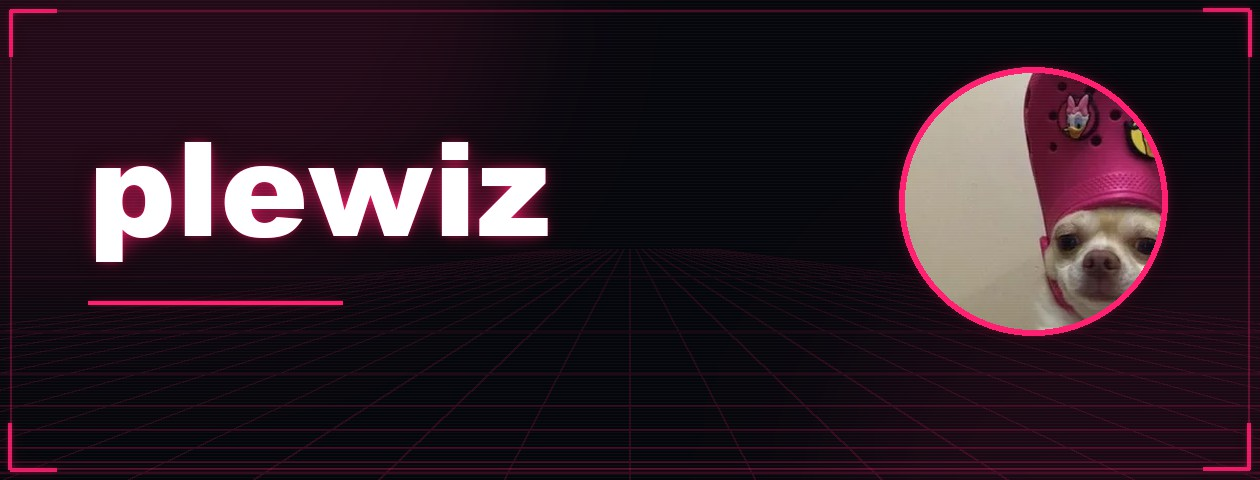
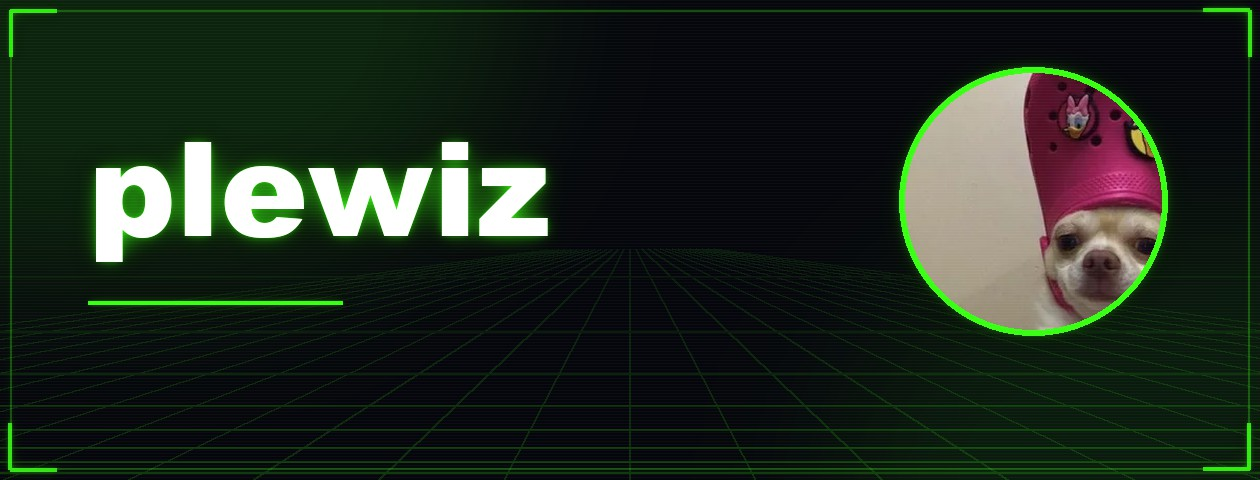
Give plewiz, Hany1, and Shady43 distinct neon colors
plewiz's hot pink was reused via the hash-based fallback by whichever
departed manager's userId happened to land on that slot. Gave plewiz an
explicit neon-green, and gave Hany1 and Shady43 their own explicit
colors instead of relying on the fallback hash - which is what let
Shady43 silently inherit plewiz's old (and after this change, new)
color in the first place.

diff --git a/src/lib/teamColors.ts b/src/lib/teamColors.ts
@@ -13,12 +13,14 @@ const ASSIGNED: Record<string, string> = {
   "976317587141287936": "#FF7A1A", // sharo733     - orange
   "732791680197054464": "#9D4EFF", // mmasoud2     - violet
   "978857538626084864": "#00FF9C", // Enasif18     - spring green
-  "738510505450283008": "#FF1E6F", // plewiz       - hot pink
+  "738510505450283008": "#39FF14", // plewiz       - neon green
   "739598324197392384": "#2E8BFF", // KokoM        - electric blue
   "853720333243482112": "#FFE81A", // mavs97       - yellow
   "872210229440487424": "#00FFD1", // SumoFlakes   - turquoise
   "739228047332548608": "#FF3B3B", // frtheo       - red
   "738538726719930368": "#6C5CFF", // 3mojt        - indigo
+  "739597616110829568": "#E100FF", // Hany1        - electric purple (departed)
+  "718138810201878528": "#FF6EC7", // Shady43      - bubblegum pink (departed)
 };
 
 /** Fallback pool for anyone not in ASSIGNED (e.g. managers who've left). */
@@ -29,7 +31,7 @@ const FALLBACK = [
   "#FF7A1A",
   "#9D4EFF",
   "#00FF9C",
-  "#FF1E6F",
+  "#39FF14",
   "#2E8BFF",
   "#FFE81A",
   "#00FFD1",

diff --git a/scripts/generate_filler_images.py b/scripts/generate_filler_images.py
@@ -21,7 +21,7 @@ MANAGERS = [
     ("976317587141287936", "sharo733", "#FF7A1A"),
     ("732791680197054464", "mmasoud2", "#9D4EFF"),
     ("978857538626084864", "Enasif18", "#00FF9C"),
-    ("738510505450283008", "plewiz", "#FF1E6F"),
+    ("738510505450283008", "plewiz", "#39FF14"),
     ("739598324197392384", "KokoM", "#2E8BFF"),
     ("853720333243482112", "mavs97", "#FFE81A"),
     ("872210229440487424", "SumoFlakes", "#00FFD1"),
